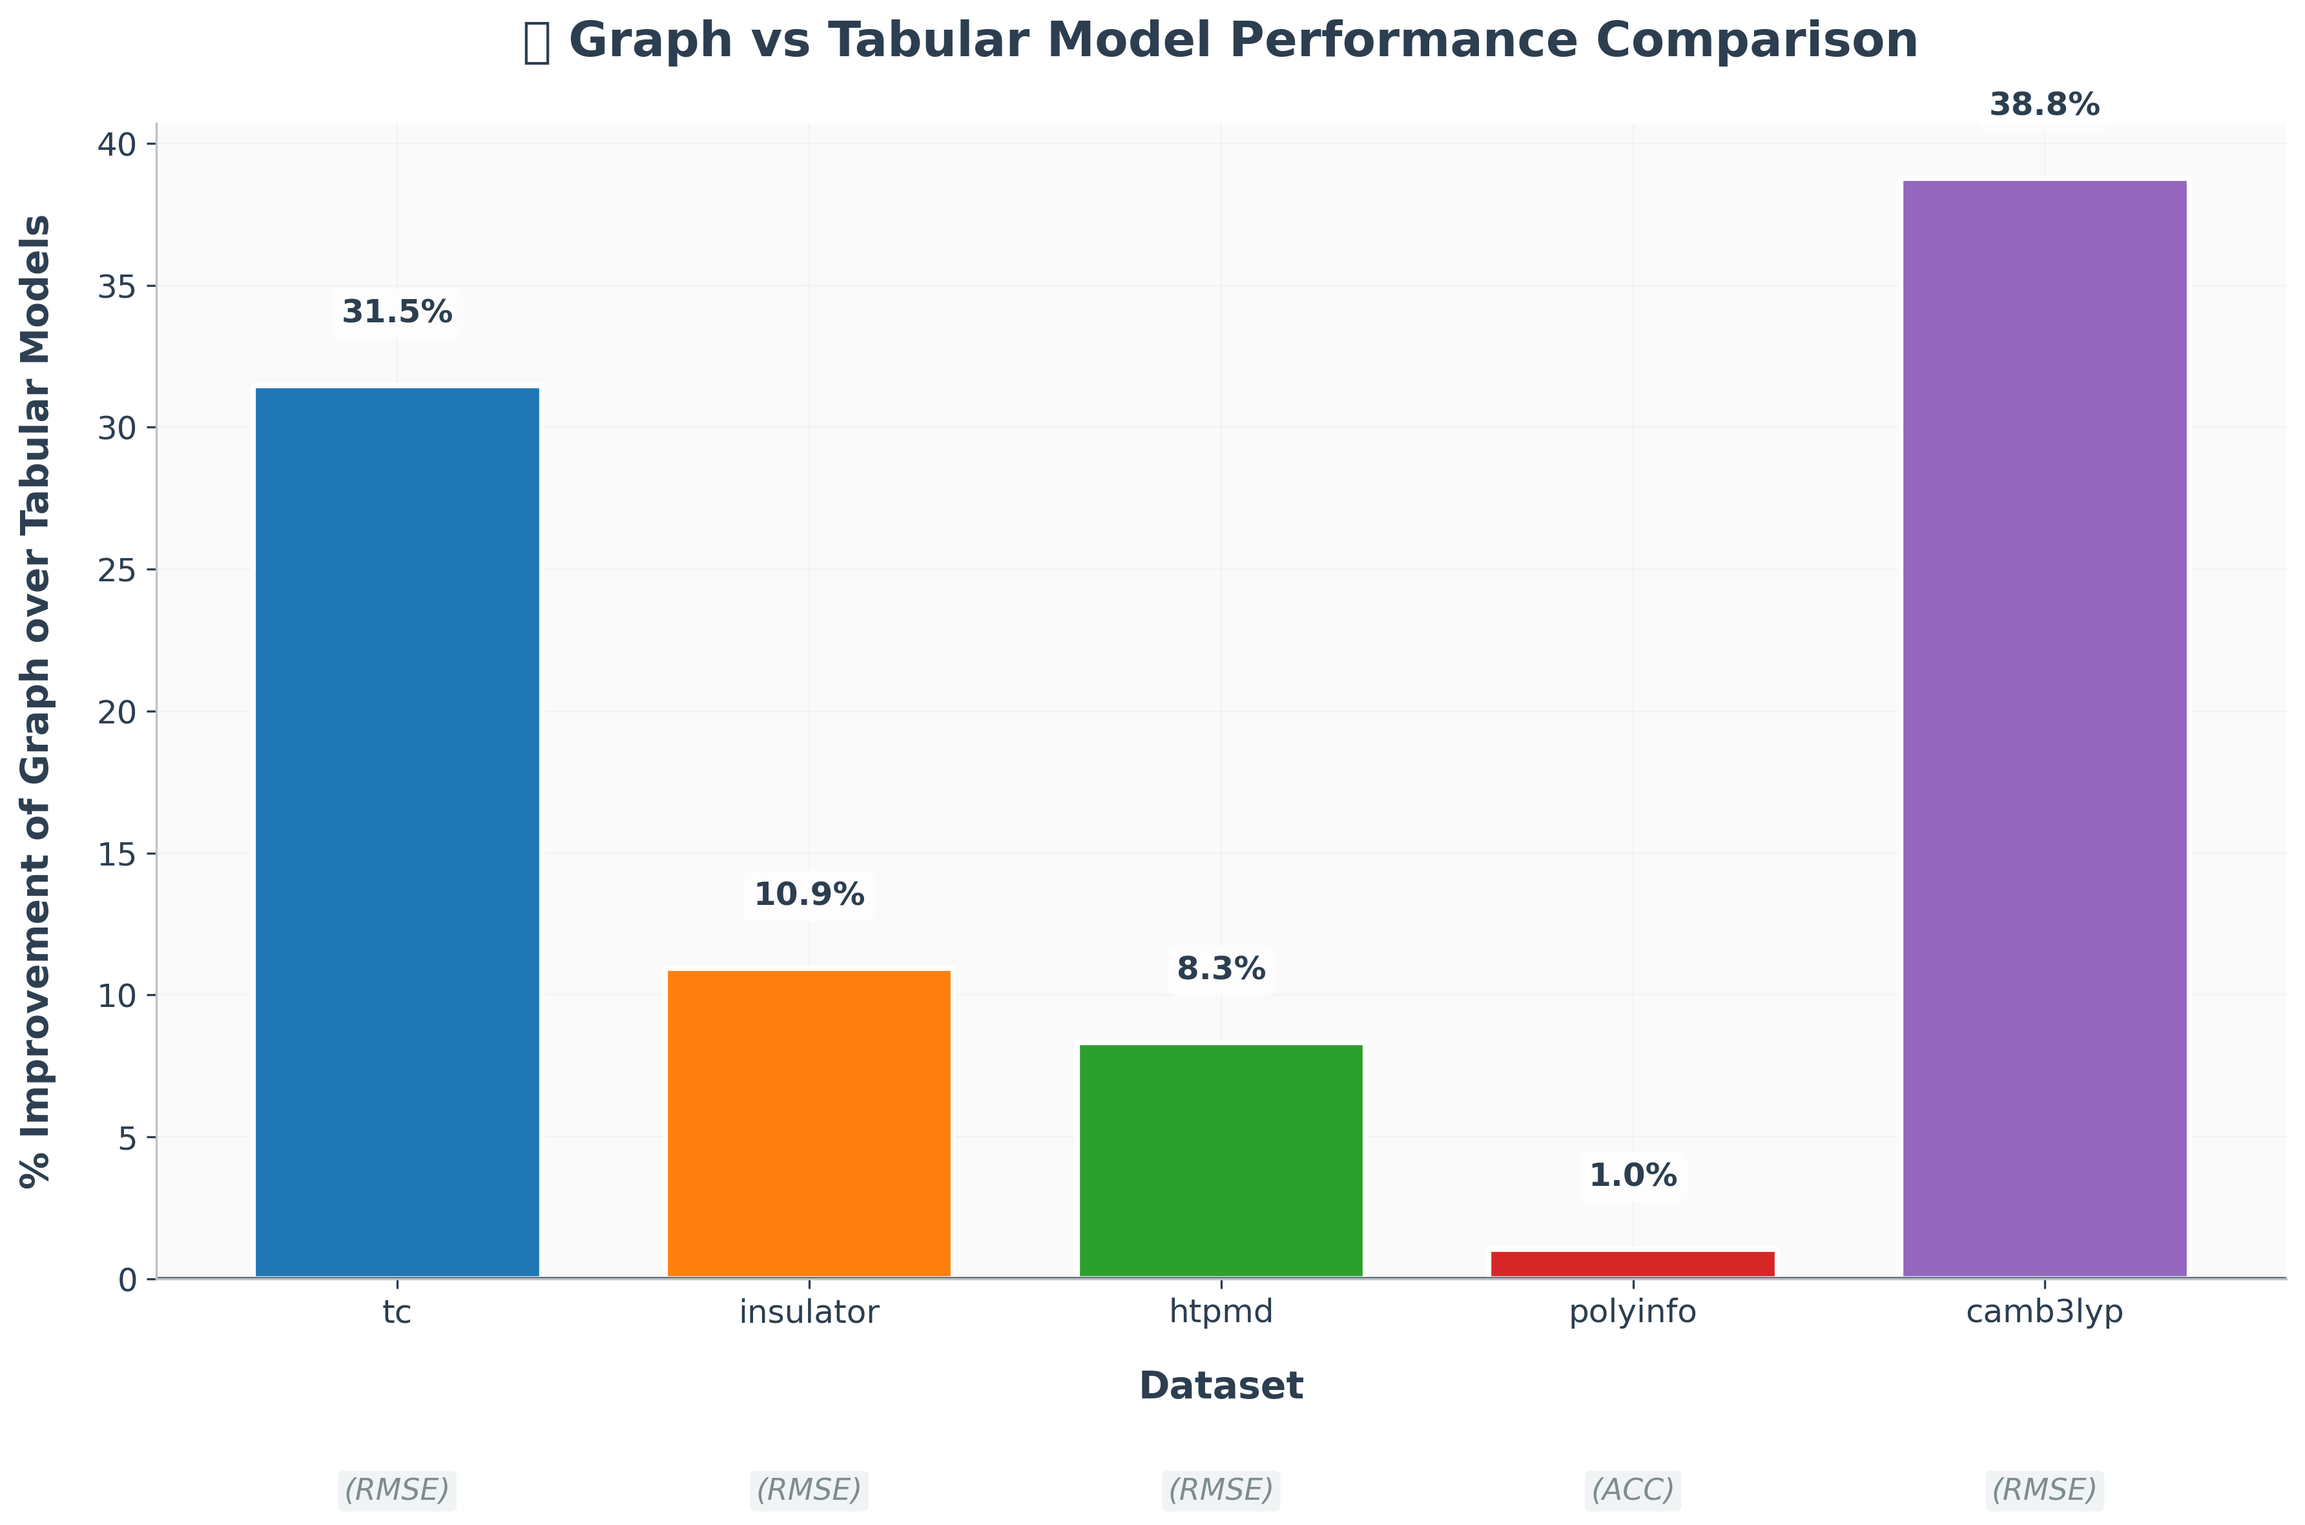
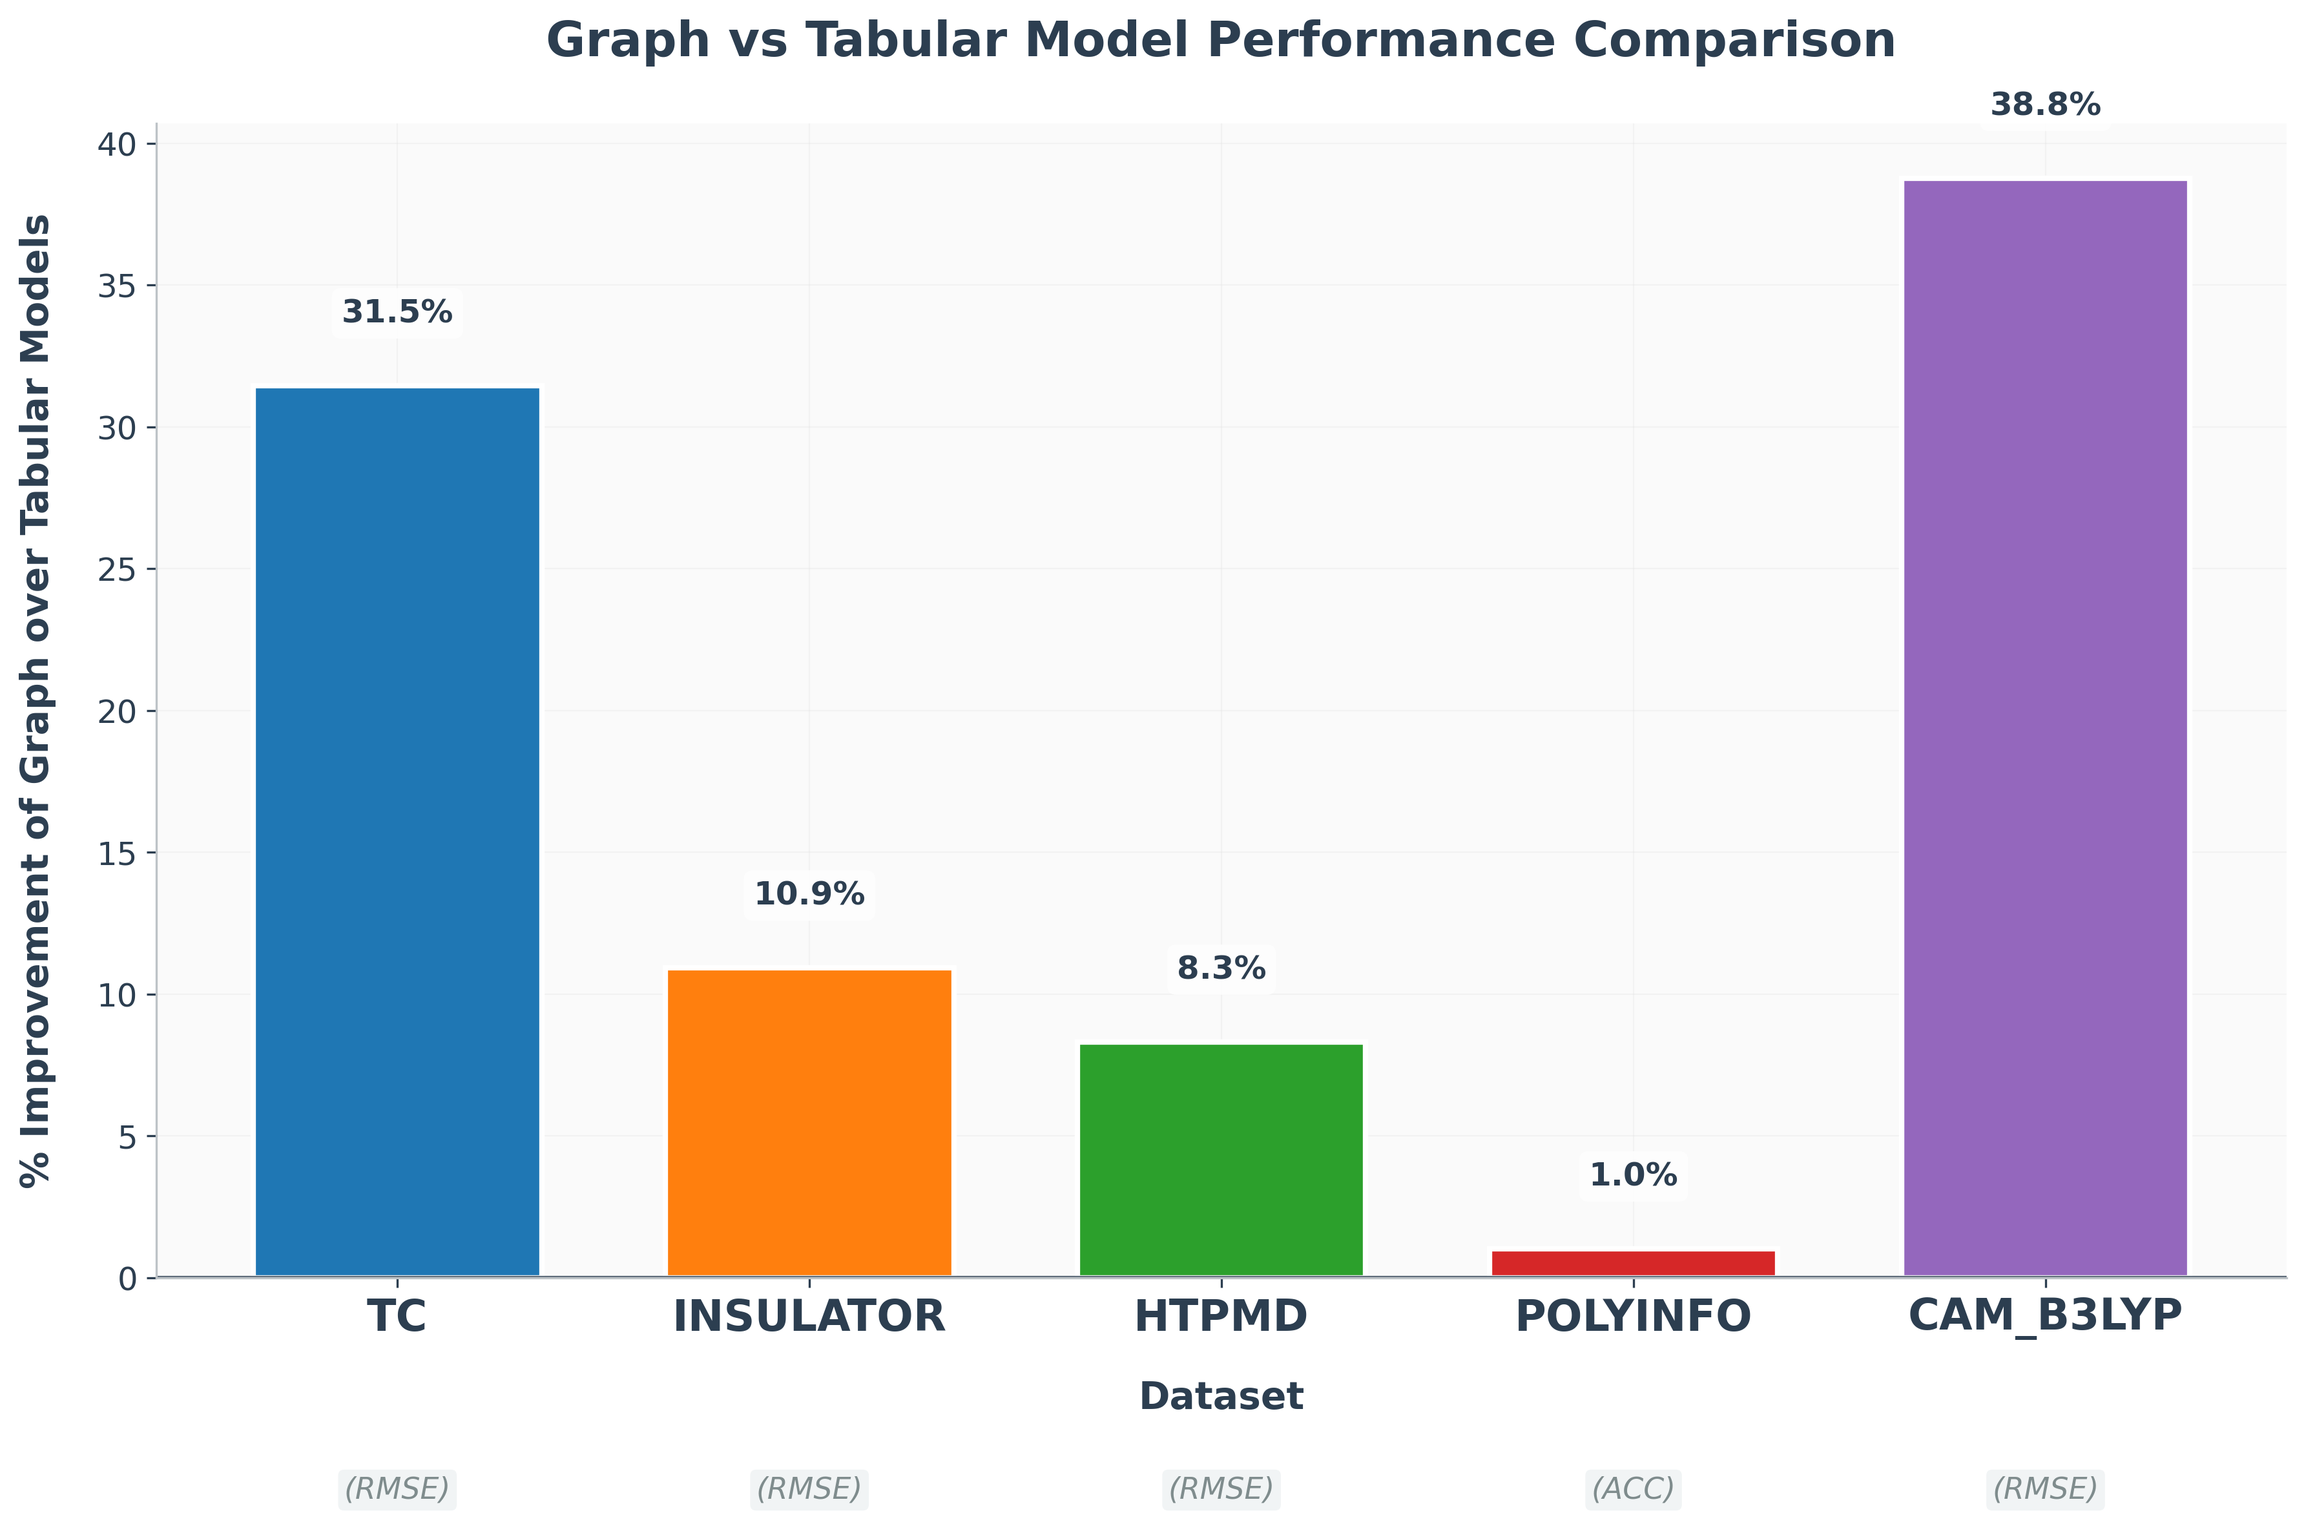
update result csv files

diff --git a/analysis/compare_tabular_vs_graph.py b/analysis/compare_tabular_vs_graph.py
@@ -248,10 +248,10 @@ def print_summary(all_results: List[Dict[str, Any]]):
 def create_improvement_bar_plot(all_results: List[Dict[str, Any]], output_path: str = 'graph_vs_tabular_improvement.png'):
     """Create a bar plot showing % improvement of graph over tabular models."""
     
-    # Define the desired dataset order
+    # Define the desired dataset order (canonical IDs, lowercase)
     dataset_order = ['tc', 'insulator', 'htpmd', 'polyinfo', 'camb3lyp']
     
-    # Map opv_camb3lyp to camb3lyp for display
+    # Map variants to canonical dataset IDs
     dataset_mapping = {'opv_camb3lyp': 'camb3lyp'}
     
     # Collect improvement data
@@ -264,8 +264,8 @@ def create_improvement_bar_plot(all_results: List[Dict[str, Any]], output_path: 
         dataset = result['dataset']
         task_type = result['task_type']
         
-        # Apply dataset mapping for display
-        display_dataset = dataset_mapping.get(dataset, dataset)
+        # Canonicalize dataset ID for plotting/colors
+        dataset_id = dataset_mapping.get(dataset, dataset)
         
         # Determine which metric to use based on task type
         if task_type == 'classification' and dataset == 'polyinfo':
@@ -284,8 +284,14 @@ def create_improvement_bar_plot(all_results: List[Dict[str, Any]], output_path: 
             if comp['better_model'] == 'tabular':
                 improvement_pct = -abs(improvement_pct)  # Make negative if tabular is better
             
+            # Build display label: uppercase, special-case CAM_B3LYP
+            display_label = dataset_id.upper()
+            if dataset_id == 'camb3lyp':
+                display_label = 'CAM_B3LYP'
+
             plot_data.append({
-                'dataset': display_dataset,
+                'dataset_id': dataset_id,           # canonical id for ordering/colors
+                'display': display_label,           # label shown on x-axis
                 'improvement_pct': improvement_pct,
                 'task_type': task_type,
                 'metric': metric_key.upper()
@@ -298,14 +304,14 @@ def create_improvement_bar_plot(all_results: List[Dict[str, Any]], output_path: 
     # Convert to DataFrame and sort by desired order
     df_plot = pd.DataFrame(plot_data)
     
-    # Filter to only include datasets in our desired order that we have data for
-    available_datasets = df_plot['dataset'].unique()
-    ordered_datasets = [ds for ds in dataset_order if ds in available_datasets]
-    
-    # Filter and reorder
-    df_plot = df_plot[df_plot['dataset'].isin(ordered_datasets)]
-    df_plot['dataset'] = pd.Categorical(df_plot['dataset'], categories=ordered_datasets, ordered=True)
-    df_plot = df_plot.sort_values('dataset')
+    # Filter to only include datasets in our desired order that we have data for (by canonical id)
+    available_ids = df_plot['dataset_id'].unique()
+    ordered_ids = [ds for ds in dataset_order if ds in available_ids]
+
+    # Filter and reorder by canonical id
+    df_plot = df_plot[df_plot['dataset_id'].isin(ordered_ids)]
+    df_plot['dataset_id'] = pd.Categorical(df_plot['dataset_id'], categories=ordered_ids, ordered=True)
+    df_plot = df_plot.sort_values('dataset_id')
     
     # Create the plot with modern styling
     plt.style.use('default')  # Use default style to preserve colors
@@ -316,7 +322,7 @@ def create_improvement_bar_plot(all_results: List[Dict[str, Any]], output_path: 
     ax.set_axisbelow(True)
     
     # Use dataset-specific colors
-    colors = [DATASET_COLORS.get(dataset, '#1f77b4') for dataset in df_plot['dataset']]
+    colors = [DATASET_COLORS.get(ds_id, '#1f77b4') for ds_id in df_plot['dataset_id']]
     
     # # OLD: Define a vibrant color palette based on improvement percentage
     # colors = []
@@ -334,7 +340,7 @@ def create_improvement_bar_plot(all_results: List[Dict[str, Any]], output_path: 
     
     
     # Create colorful bars without shadow effects
-    bars = ax.bar(df_plot['dataset'], df_plot['improvement_pct'], 
+    bars = ax.bar(df_plot['dataset_id'], df_plot['improvement_pct'], 
                   color=colors, alpha=1.0, edgecolor='white', linewidth=2,
                   width=0.7)
     
@@ -342,7 +348,7 @@ def create_improvement_bar_plot(all_results: List[Dict[str, Any]], output_path: 
     ax.axhline(y=0, color='#2C3E50', linestyle='-', linewidth=1.5, alpha=0.8)
     ax.set_xlabel('Dataset', fontsize=14, fontweight='bold', color='#2C3E50', labelpad=15)
     ax.set_ylabel('% Improvement of Graph over Tabular Models', fontsize=14, fontweight='bold', color='#2C3E50', labelpad=15)
-    ax.set_title('🚀 Graph vs Tabular Model Performance Comparison', 
+    ax.set_title('Graph vs Tabular Model Performance Comparison', 
                 fontsize=18, fontweight='bold', color='#2C3E50', pad=25)
     
     # Style the axes
@@ -350,7 +356,13 @@ def create_improvement_bar_plot(all_results: List[Dict[str, Any]], output_path: 
     ax.spines['right'].set_visible(False)
     ax.spines['left'].set_color('#BDC3C7')
     ax.spines['bottom'].set_color('#BDC3C7')
-    ax.tick_params(colors='#2C3E50', labelsize=12)
+    ax.tick_params(axis='x', colors='#2C3E50', labelsize=16)
+    ax.tick_params(axis='y', colors='#2C3E50', labelsize=12)
+    # Set custom x-axis tick labels to uppercase display names (with CAM_B3LYP)
+    ax.set_xticklabels(df_plot['display'])
+    # Make x-axis tick labels bold for better readability
+    for lbl in ax.get_xticklabels():
+        lbl.set_fontweight('bold')
     
     # Add value labels on bars with better styling
     for bar, value in zip(bars, df_plot['improvement_pct']):
@@ -362,7 +374,7 @@ def create_improvement_bar_plot(all_results: List[Dict[str, Any]], output_path: 
                 bbox=dict(boxstyle='round,pad=0.3', facecolor='white', alpha=0.8, edgecolor='none'))
     
     # Add metric information with better styling
-    for i, (dataset, metric) in enumerate(zip(df_plot['dataset'], df_plot['metric'])):
+    for i, (display, metric) in enumerate(zip(df_plot['display'], df_plot['metric'])):
         ax.text(i, min(df_plot['improvement_pct']) - 8, f'({metric})', 
                 ha='center', va='top', fontsize=11, style='italic', color='#7F8C8D',
                 bbox=dict(boxstyle='round,pad=0.2', facecolor='#ECF0F1', alpha=0.7, edgecolor='none'))
@@ -380,7 +392,7 @@ def create_improvement_bar_plot(all_results: List[Dict[str, Any]], output_path: 
     print(f"\n📊 IMPROVEMENT SUMMARY:")
     for _, row in df_plot.iterrows():
         status = "✅ Graph better" if row['improvement_pct'] >= 0 else "⚠ Tabular better"
-        print(f"   {row['dataset']}: {row['improvement_pct']:+.1f}% ({row['metric']}) - {status}")
+        print(f"   {row['display']}: {row['improvement_pct']:+.1f}% ({row['metric']}) - {status}")
     
     plt.show()
 

diff --git a/scripts/python/visualize_combined_results.py b/scripts/python/visualize_combined_results.py
@@ -507,7 +507,8 @@ def _create_comparison_plots_internal(data: pd.DataFrame, dataset: str, metric: 
                   yerr=stds, capsize=3, label=f'{method}-{model}', alpha=0.8, color=color)
         
         ax.set_xlabel('Feature Combination')
-        ax.set_ylabel(metric.upper())
+        ylabel_text = 'Root Mean Squared Error' if str(metric).lower() == 'rmse' else metric.upper()
+        ax.set_ylabel(ylabel_text)
         ax.set_title(f'{target}')
         ax.set_xticks(x_pos)
         ax.set_xticklabels(features, rotation=45, ha='right')
@@ -628,16 +629,34 @@ def create_best_model_comparison_plots(data: pd.DataFrame, dataset: str, metric:
     model and the best Graph model for each target (where available).
     """
 
+    # Format dataset display name: uppercase; special-case CAM_B3LYP
+    ds_lower = str(dataset).lower()
+    if 'camb3lyp' in ds_lower or 'cam_b3lyp' in ds_lower:
+        display_dataset = 'CAM_B3LYP'
+    else:
+        display_dataset = str(dataset).upper()
+
     best_df = _select_best_tabular_and_graph_models(data, metric, task_type)
     if best_df.empty:
         print(f"Warning: No best-model data available for {dataset} and metric '{metric}'. Skipping best-model plot.")
         return
 
-    targets = sorted(best_df['target'].astype(str).unique())
+    # Filter to specific target if desired
+    if dataset.lower() == 'opv_camb3lyp':
+        targets = ['delta_optical_lumo']
+        # Filter best_df to only this target
+        best_df = best_df[best_df['target'] == 'delta_optical_lumo']
+    else:
+        targets = sorted(best_df['target'].astype(str).unique())
+    
     n_targets = len(targets)
     x = np.arange(n_targets)
-    width = 0.35
+    width = 0.22
 
+    # Clear any existing matplotlib state
+    plt.clf()
+    plt.close('all')
+    
     fig, ax = plt.subplots(figsize=(max(8, n_targets * 1.2), 6))
 
     # Prepare values and stds for Tabular and Graph, and legend labels
@@ -670,6 +689,7 @@ def create_best_model_comparison_plots(data: pd.DataFrame, dataset: str, metric:
             graph_values.append(np.nan)
             graph_stds.append(np.nan)
             graph_labels.append("")
+        
 
     tab_vals = np.array(tab_values, dtype=float)
     graph_vals = np.array(graph_values, dtype=float)
@@ -677,54 +697,54 @@ def create_best_model_comparison_plots(data: pd.DataFrame, dataset: str, metric:
     graph_err = np.array(graph_stds, dtype=float)
 
     # Colors consistent with other plots
-    tab_color = '#1f77b4'
-    graph_color = '#d62728'
+    tab_color = '#d62728'
+    graph_color = '#1f77b4'
 
-    # Use error bars to show variance across splits
+    # Use error bars to show variance across splits (thicker, darker, larger caps)
+    err_kw = dict(elinewidth=2, capsize=6, capthick=2, ecolor='#2C3E50')
     tab_bars = ax.bar(
         x - width/2,
         tab_vals,
         width,
         yerr=tab_err,
-        capsize=3,
-        label=None,
         color=tab_color,
+        alpha=0.9,
+        error_kw=err_kw,
     )
     graph_bars = ax.bar(
         x + width/2,
         graph_vals,
         width,
         yerr=graph_err,
-        capsize=3,
-        label=None,
         color=graph_color,
+        alpha=0.9,
+        error_kw=err_kw,
     )
 
-    # Build legend entries from the actual model/method names
-    legend_entries = []
-    legend_labels = []
+    # Replace legend with explicit x-axis labels for each bar: Tabular / Graph
+    xtick_positions = []
+    xtick_labels = []
+    for xi in x:
+        xtick_positions.extend([xi - width/2, xi + width/2])
+        xtick_labels.extend(["Tabular", "Graph"])
 
-    # Tabular legend: use the (unique) set of non-empty labels
-    for lbl in sorted(set(l for l in tab_labels if l)):
-        legend_entries.append(
-            plt.Line2D([0], [0], marker='s', color='w', label=lbl, markerfacecolor=tab_color, markersize=10)
-        )
-        legend_labels.append(lbl)
+    ax.set_xticks(xtick_positions)
+    ax.set_xticklabels(xtick_labels, rotation=0)
+    for lbl in ax.get_xticklabels():
+        lbl.set_fontweight('bold')
 
-    # Graph legend: use the (unique) set of non-empty labels
-    for lbl in sorted(set(l for l in graph_labels if l)):
-        legend_entries.append(
-            plt.Line2D([0], [0], marker='s', color='w', label=lbl, markerfacecolor=graph_color, markersize=10)
-        )
-        legend_labels.append(lbl)
-
-    ax.set_xticks(x)
-    ax.set_xticklabels(targets, rotation=45, ha='right')
-    ax.set_ylabel(metric.upper())
-    ax.set_title(f'{dataset} - Best Tabular vs Best Graph ({metric.upper()})')
-    if legend_entries:
-        ax.legend(legend_entries, legend_labels, bbox_to_anchor=(1.05, 1), loc='upper left')
+    ylabel_text = 'Error (RMSE)' if str(metric).lower() == 'rmse' else metric.upper()
+    ax.set_ylabel(ylabel_text)
+    ax.set_title(f'{display_dataset} - Best Tabular vs Best Graph')
     ax.grid(True, axis='y', alpha=0.3)
+
+    # Add target labels above each pair for context (only if multiple targets)
+    if len(targets) > 1:
+        ymax = np.nanmax([np.nanmax(tab_vals + tab_err), np.nanmax(graph_vals + graph_err)])
+        if np.isfinite(ymax):
+            y_text = ymax * 1.05
+            for xi, t in zip(x, targets):
+                ax.text(xi, y_text, str(t), ha='center', va='bottom', fontsize=10, color='#2C3E50')
 
     fig.tight_layout()
 

diff --git a/analysis/feature_space_analysis.py b/analysis/feature_space_analysis.py
@@ -312,14 +312,18 @@ def plot_umap_embedding(features: np.ndarray, targets: np.ndarray, dataset_name:
     # cbar.set_label(f'{target_name} Value', fontsize=12)
     
     # Add labels and title
-    plt.xlabel('UMAP 1', fontsize=12)
-    plt.ylabel('UMAP 2', fontsize=12)
+    # plt.xlabel('UMAP 1', fontsize=12)
+    # plt.ylabel('UMAP 2', fontsize=12)
     plt.title(f'{dataset_name.upper()}',  # OLD: - {target_name}\nUMAP 2D Embedding
              fontsize=14, fontweight='bold')
     
     # Add grid
     plt.grid(True, alpha=0.3)
-    
+
+    # plt.xlim(-15, 35)
+    # plt.ylim(-20, 30)
+    # plt.gca().set_aspect('equal', adjustable='box')
+                      
     # Save plot
     output_path = Path("/Users/u6788552/Desktop/experiments/dmpnn") / output_dir
     output_path.mkdir(parents=True, exist_ok=True)
@@ -700,8 +704,6 @@ def main():
     all_results = []
     
     for dataset in datasets:
-        if dataset != 'cam_b3lyp':
-            continue
         try:
             results = analyze_dataset_features(dataset, config, output_dir, logger)
             all_results.extend(results)
